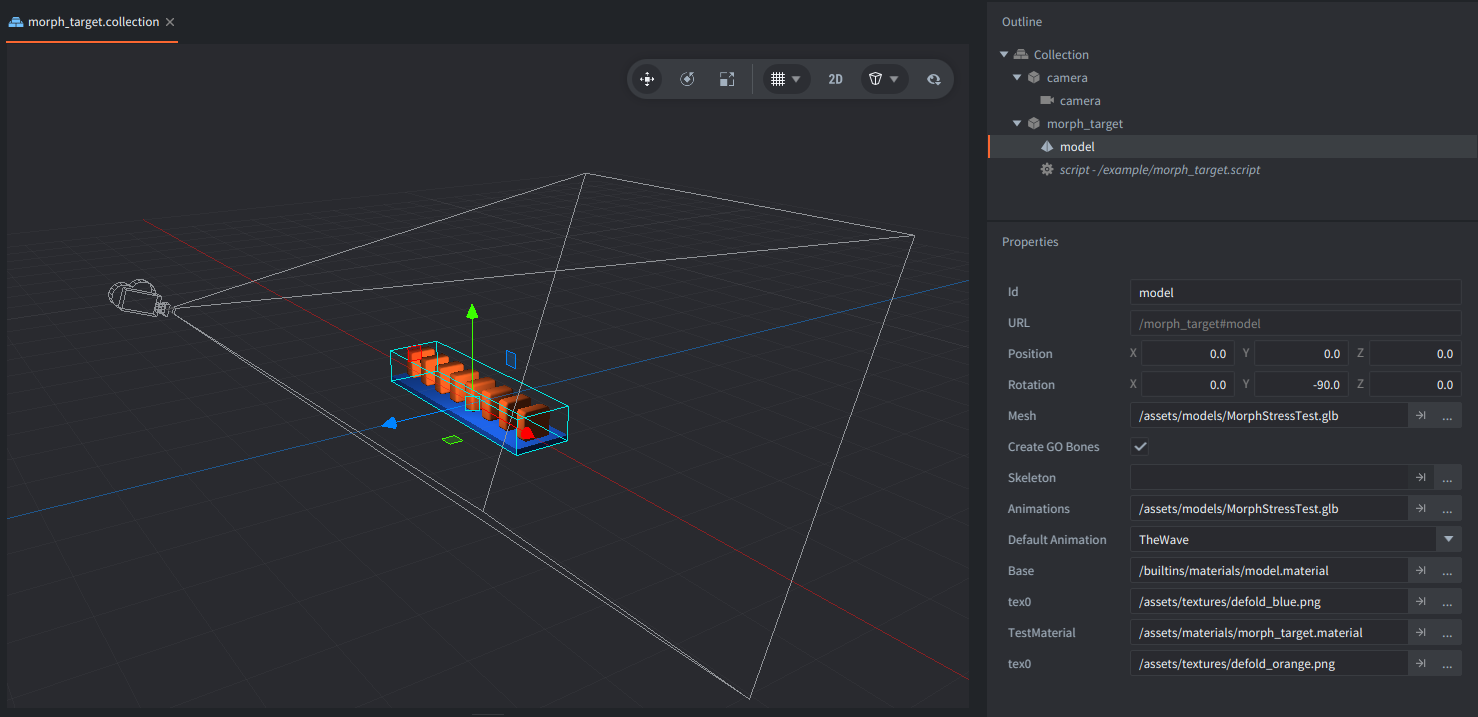
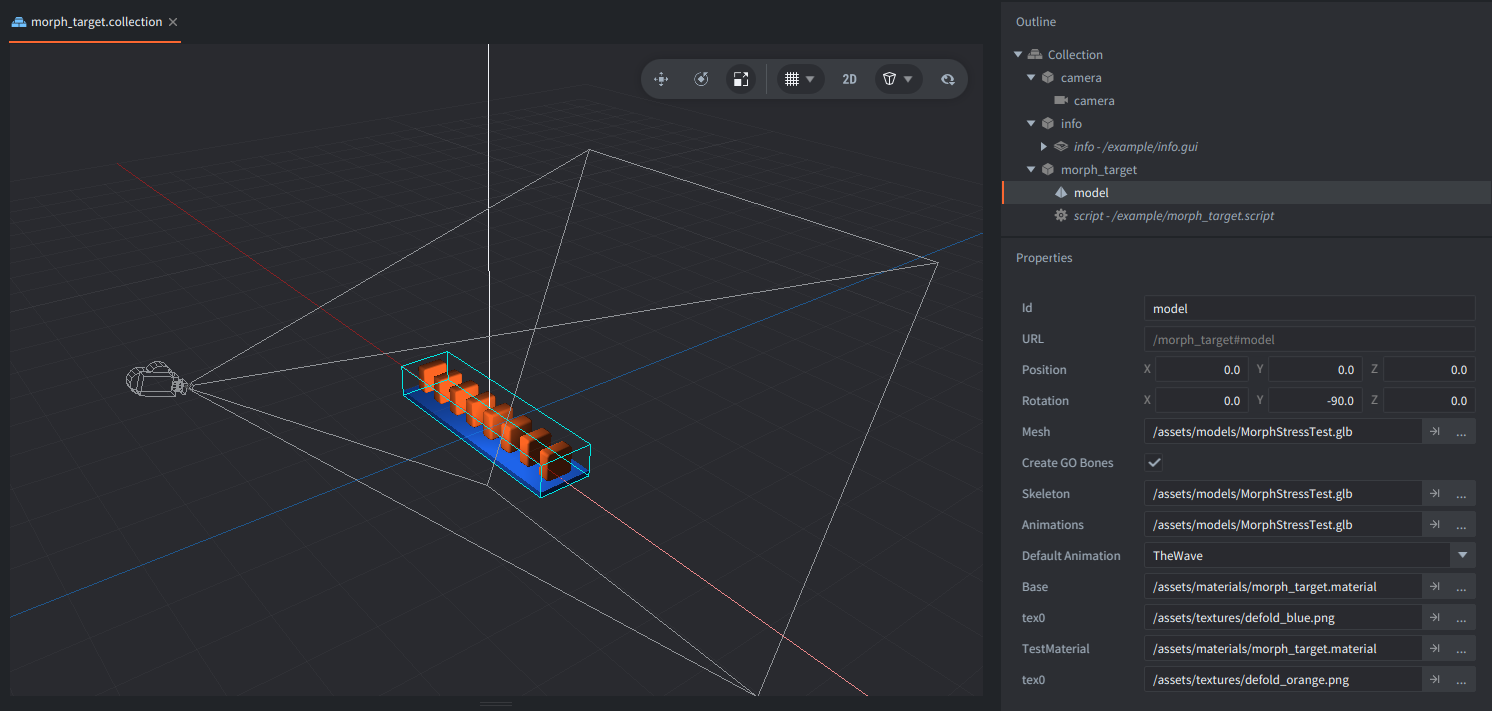
Fix the morph target example to use the morph target materials and update documentation.

diff --git a/model/morph-target/example.md b/model/morph-target/example.md
@@ -1,20 +1,20 @@
 ---
 tags: model, animation
 title: Morph Target Animation
-brief: Shows how to play glTF morph target animations on a Model component.
+brief: Shows how to play glTF morph target animations with a morph-capable model material.
 author: Defold Foundation
-scripts: morph_target.script
+scripts: morph_target.script, model_target.vp
 thumbnail: thumbnail.webp
 ---
 
-This example plays morph target animations from a glTF model. The model uses Defold's built-in model material, so no custom shader is needed to see the animated shape changes.
+This example plays morph target animations from a glTF model. The model uses a small custom material based on Defold's built-in model material, with the extra shader bindings needed to render morph target deformation.
 
 ## What You'll Learn
 
 - How to use a glTF file that contains morph targets and weight animations
 - How to play a named model animation with `model.play_anim()`
 - How to cycle between several morph target animations with input
-- How the built-in model material can render animated morph targets
+- How to create a model material to apply morph target data
 
 ## Setup
 
@@ -26,9 +26,16 @@ The collection contains one camera and one `morph_target` game object.
 <kbd>camera</kbd>
 : Contains a perspective Camera component positioned above and in front of the model.
 
-The glTF model has two material slots, `Base` and `TestMaterial`. Both slots use `/builtins/materials/model.material`; the blue and orange textures only make the two parts of the model easier to distinguish.
+<kbd>info</kbd>
+: Contains a GUI component with instructions for the example.
+
 
 ![setup](setup.png)
+
+
+The glTF model has two material slots, `Base` and `TestMaterial`. Both slots use `/assets/materials/morph_target.material`; the blue and orange textures only make the two parts of the model easier to distinguish. Custom material has vertex constants `morph_targets_weights` of type `User` for applying weighted morph targets.
+
+![material](material.png)
 
 ## How It Works
 
@@ -38,7 +45,9 @@ The glTF model has two material slots, `Base` and `TestMaterial`. Both slots use
 model.play_anim("#model", "TheWave", go.PLAYBACK_LOOP_FORWARD)
 ```
 
-The animations in the glTF file target the model's morph weights. As the animation plays, Defold updates those weights and the built-in model material renders the deformed mesh.
+The animations in the glTF file target the model's morph weights. As the animation plays, Defold updates the material constant named `morph_targets_weights` and binds the model's morph target texture to the material sampler named `morph_targets`.
+
+The stock model material is useful as a starting point, but it does not apply morph target deltas by itself. This example therefore uses `/assets/materials/morph_target.material`, which declares the expected morph target bindings and uses `/assets/materials/morph_target.vp` to sample the morph target texture. The vertex shader reads the active weights, samples the position delta for each target, and adds the weighted result to the base vertex position before projection.
 
 When you click or touch the screen, `on_input()` advances to the next animation name and calls `model.play_anim()` again. The example loops through `TheWave`, `Pulse`, and `Individuals`.
 